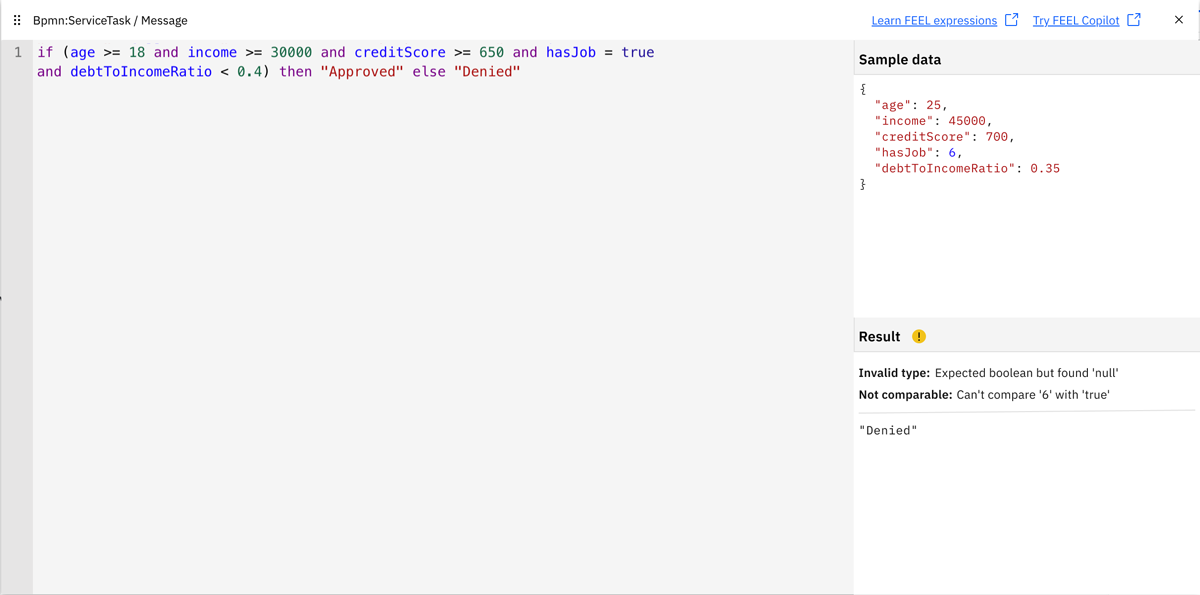
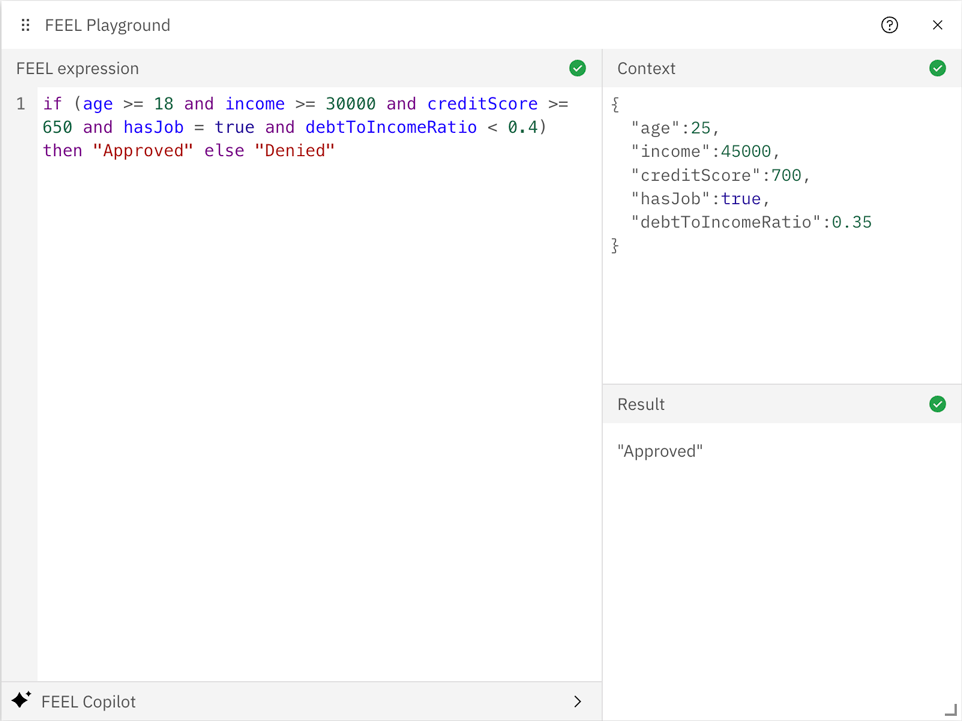
TW edits

diff --git a/docs/components/modeler/feel/feel-playground.md b/docs/components/modeler/feel/feel-playground.md
@@ -9,20 +9,30 @@ import PlaygroundOpenImg from './assets/feel-playground-open.png';
 import PlaygroundIconApprovedImg from './assets/feel-playground-validation-approved.png';
 import PlaygroundIconWarningImg from './assets/feel-playground-validation-warning.png';
 import PlaygroundIconErrorImg from './assets/feel-playground-validation-error.png';
+import PlaygroundExampleInvalidImg from './assets/feel-playground-example-invalid-expression.png';
+import PlaygroundExampleJsonWarningImg from './assets/feel-playground-example-warning-json.png';
 
 Use the FEEL Playground to validate and troubleshoot your FEEL expressions when modeling process diagrams in Web Modeler.
 
 ## About FEEL Playground
 
-When using the [FEEL expression language](/components/modeler/feel/what-is-feel.md), you must specify a valid expression. The FEEL Playground provides you with a space to test and validate your FEEL expressions, using context and sample data in real-time.
+When using the [FEEL expression language](/components/modeler/feel/what-is-feel.md), you must specify a valid expression. The FEEL Playground provides you with a space to test and validate your FEEL expressions with contextual sample data.
 
 The FEEL Playground is integrated into the popup FEEL editor:
 
-<img src={PlaygroundExampleImg} alt="Example image showing the FEEL Playground Sample Data and Result of a FEEL expression validation" class="img-900"/>
+<img src={PlaygroundExampleImg} alt="Example image showing the FEEL Playground Sample Data and Result of a FEEL expression validation" class="img-800"/>
 
-- **Sample data**: A pre-filled set of [sample data and variables](/components/modeler/data-handling.md) to use as a context for validating your expression. You can edit this sample data if required.
+- **FEEL expression**: Enter and edit the FEEL expression you want to validate.
+
+- **Context**: A pre-filled set of [sample data and variables](/components/modeler/data-handling.md) to use as a context for validating your expression against. You can edit this sample data if required. The data must be correctly formatted as valid JSON.
 
 - **Result**: Shows the results of the validation when run against the sample data. For example, if the expression is valid for the sample data, an [Approved validation result](#results) is returned. If there is a validation issue, a warning and description of the issue is shown to help you troubleshoot the expression.
+
+- **FEEL Copilot**: Open the [FEEL Copilot (alpha feature)](/components/early-access/alpha/alpha-features.md) to chat with the AI FEEL Copilot and get help with generating expressions.
+
+:::note
+The latest FEEL engine version is always used to validate FEEL expressions.
+:::
 
 ## Validate your FEEL expression {#validate}
 
@@ -33,14 +43,36 @@ To use the FEEL Playground for validation:
 
 <img src={PlaygroundOpenImg} alt="click fx on the FEEL expression field, and click the Open popup editor icon in the field" class="img-500"/>
 
-1. In the popup FEEL editor, validate your expression using the sample data, and edit the expression as required until it is valid (returns an Approved status) and no warning or errors are shown. See [validation results](#results).
+1. In the popup FEEL editor, enter and validate your expression using the contextual data. Edit the expression as required until it is valid (returns an Approved status) and no errors are shown. See [validation results](#results).
 
 ## Validation results {#results}
 
-FEEL Playground results are returned as follows:
+FEEL Playground validation results are shown as follows for each panel:
 
-| Icon                                                                                 | Status   | Description                                                                                                                                                                                                                                                                                                                                           |
-| :----------------------------------------------------------------------------------- | :------- | :---------------------------------------------------------------------------------------------------------------------------------------------------------------------------------------------------------------------------------------------------------------------------------------------------------------------------------------------------- |
-| <img src={PlaygroundIconApprovedImg} alt="Approved icon" className="inline-image" /> | Approved | The FEEL expression successfully passed validation.                                                                                                                                                                                                                                                                                                   |
-| <img src={PlaygroundIconWarningImg} alt="Warning icon" className="inline-image" />   | Warning  | <p>The FEEL expression is invalid. Edit your expression or sample data to pass validation.</p><p>For example:</p><p><ul><li><p>Invalid type: Values could not be compared as the type does not match as expected. For example, the sample data has a numeric value instead of a boolean value in a key-pair.</p></li><li><p>Example</p></li></ul></p> |
-| <img src={PlaygroundIconErrorImg} alt="Error icon" className="inline-image" />       | Error    | <p>The validation did not complete due to an error.</p><p>For example, you might need to check your sample data JSON is formed correctly as it is not valid JSON.</p>                                                                                                                                                                                 |
+| Icon                                                                               | Status  | Description                                                                                                                                                                                                                                                                                                                                            |
+| :--------------------------------------------------------------------------------- | :------ | :----------------------------------------------------------------------------------------------------------------------------------------------------------------------------------------------------------------------------------------------------------------------------------------------------------------------------------------------------- |
+| <img src={PlaygroundIconApprovedImg} alt="Valid icon" className="inline-image" />  | Valid   | The FEEL expression successfully passed validation.                                                                                                                                                                                                                                                                                                    |
+| <img src={PlaygroundIconWarningImg} alt="Warning icon" className="inline-image" /> | Warning | <p>The FEEL expression is invalid. Edit your expression or sample data to pass validation.</p><p>For example, there might be an invalid type in the contextual data, meaning that values could not be compared as the type does not match as expected (for example, the sample data has a numeric value instead of a boolean value in a key-pair).</p> |
+| <img src={PlaygroundIconErrorImg} alt="Error icon" className="inline-image" />     | Error   | <p>The validation did not complete due to an error.</p><p>For example, you might need to check your sample contextual data JSON is formed correctly.</p>                                                                                                                                                                                               |
+
+:::tip
+Hover over an icon to see more details about the status, such as why the FEEL expression is invalid for example.
+:::
+
+## Validation examples
+
+The following examples illustrate a few of the validation results you might obtain:
+
+### Example valid FEEL expression
+
+<img src={PlaygroundExampleImg} alt="Example image showing the FEEL Playground Sample Data and Result of a FEEL expression validation" class="img-600"/>
+
+- In this example, both the FEEL expression syntax and the contextual data are valid, and the correct result is shown.
+
+### Example invalid FEEL expression
+
+<img src={PlaygroundExampleInvalidImg} alt="Example image showing the FEEL Playground Sample Data and Result of a FEEL expression validation" class="img-600"/>
+
+- In this example, the FEEL expression shows an error status to indicate it did not pass validation.
+- The error is caused by an extra "else" at the end of the expression. Removing this would then result in a valid expression.
+- Hovering over the icon provides more detail on what is causing the error, for example "Expression evaluation failed: Unrecognized token in Expression".
